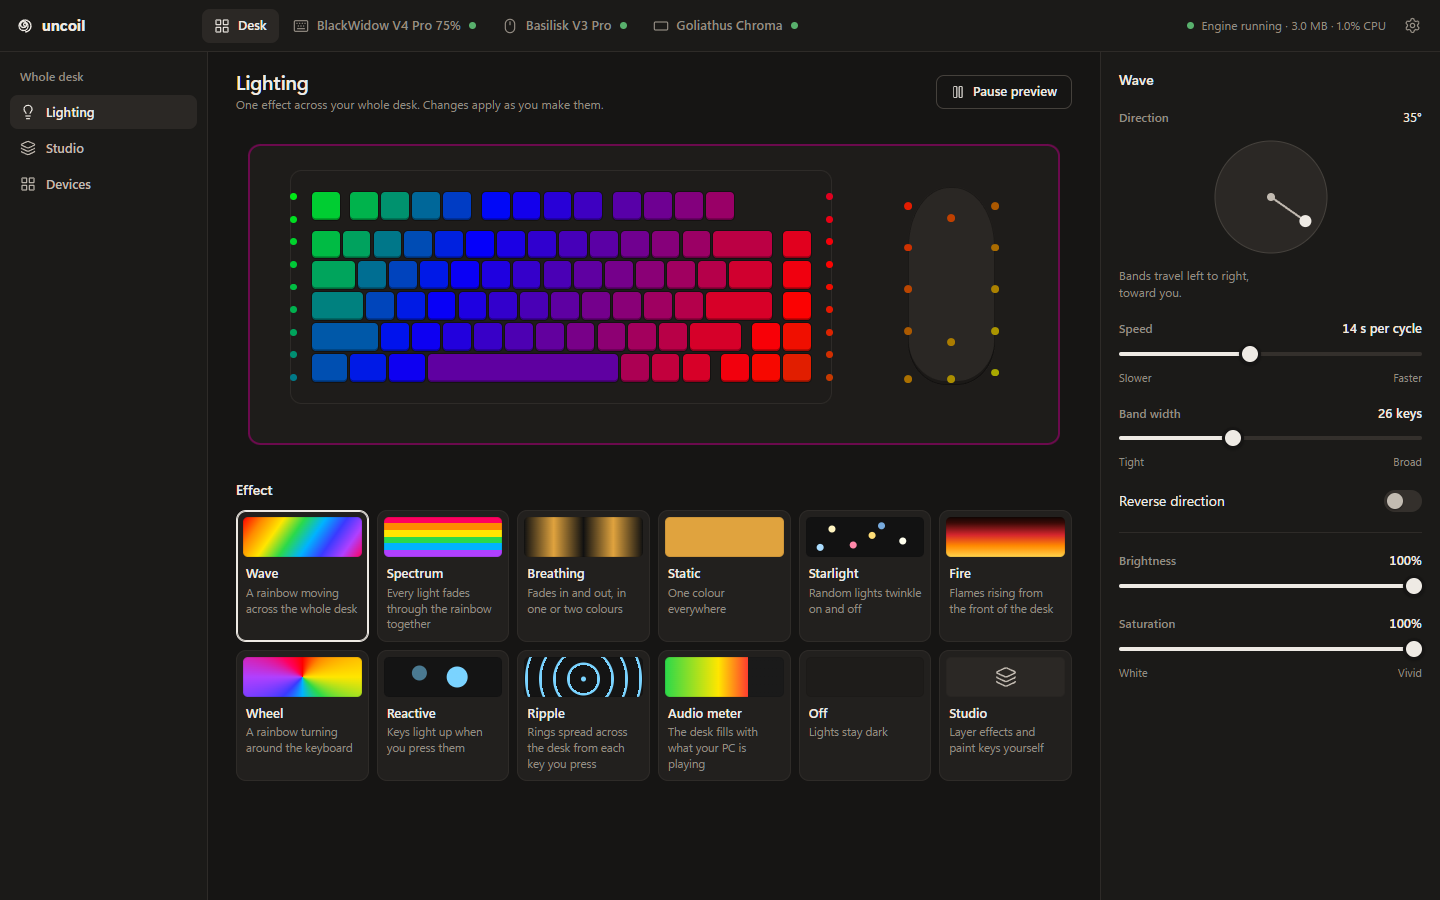
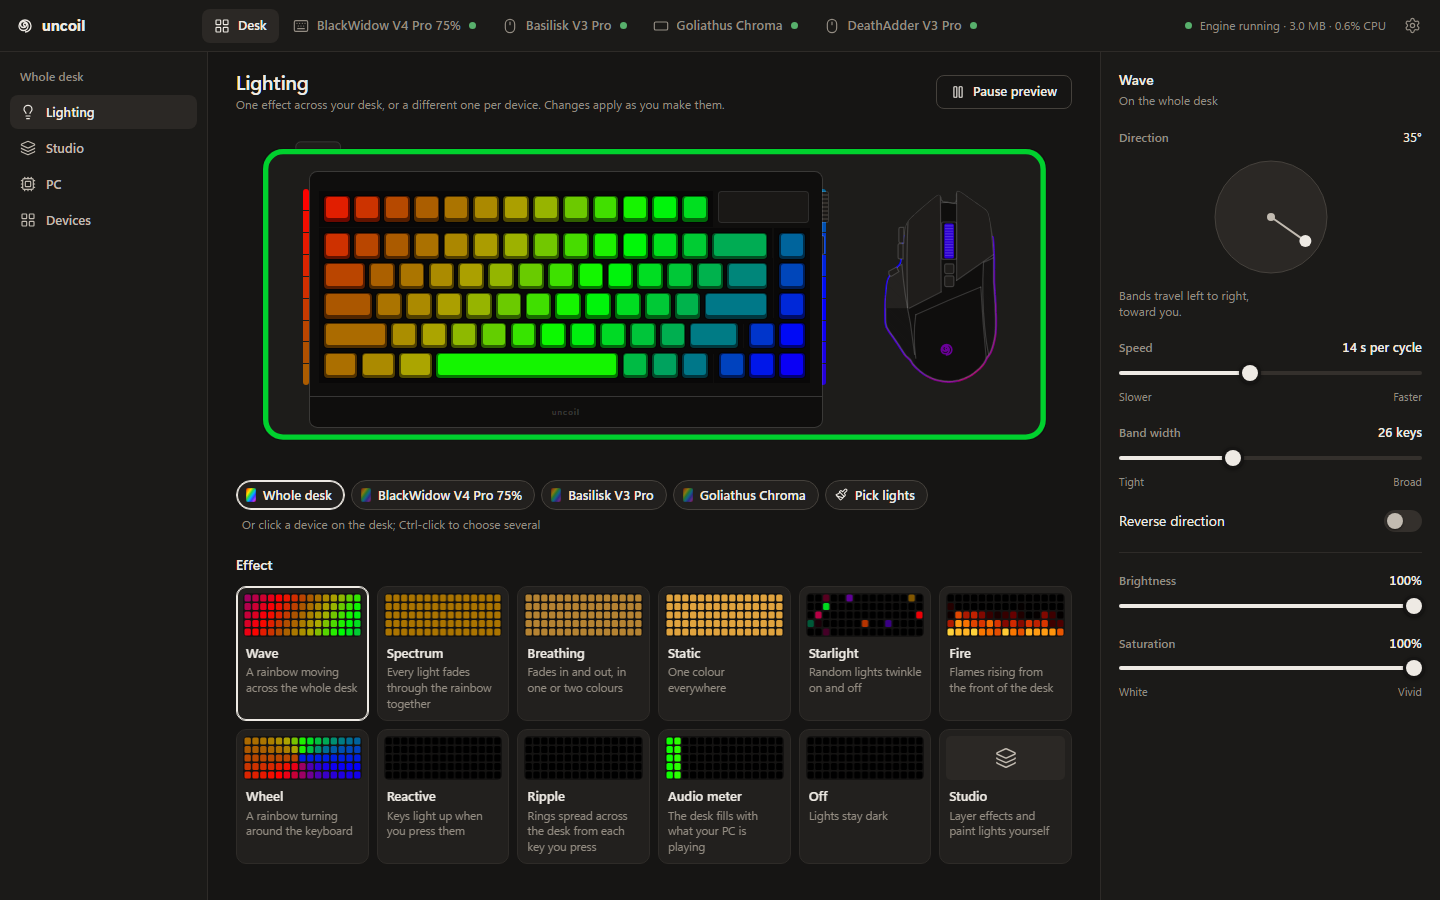
Docs and site: release download path, confirmed features, fresh screenshots
- A release user's path: the landing page and getting started now
  download from GitHub Releases, check SHA256SUMS.txt and run
  install-task.ps1 from that folder, which now installs the uncoild.exe
  beside it when there is one (else target\release as before). The
  release notes no longer say the logon task runs elevated.
- DPI, stages, poll rate, scroll mode and Smart Reel are described as
  confirmed on the Basilisk V3 Pro (2026-10-07) everywhere, with power and
  scroll acceleration still gated; firmware effects and 00/81, 00/86 are
  no longer "to map".
- README and the landing page gain per-device lighting, the device
  drawings and the PC page; tools/art joins the layout trees; PRODUCT.md
  lists today's effects and features.
- Measured figures: size 1,387,520 bytes (2026-10-07), 5-6 MB with live
  OpenRGB, the BlackWidow's ~18 fps beside the mouse and mat's 29.7, one
  CPU label ("wave running") throughout.
- The lock's busy message says OpenRGB "and apparently Razer's software",
  as PROTOCOL.md does; ARCHITECTURE.md drops the old "take turns" line.
- Screenshots recaptured from the demo data in headless Chrome.

diff --git a/site/src/lib/url.ts b/site/src/lib/url.ts
@@ -4,6 +4,6 @@ const base = import.meta.env.BASE_URL.replace(/\/+$/, '');
 export const url = (path = '') => `${base}/${path.replace(/^\/+/, '')}`;
 
 export const REPO = 'https://github.com/justinthevoid/uncoil';
-/** TODO(release): point at the first published release once one exists. */
+/** Where the downloads are: uncoild.exe, the CLI, the install scripts and the app installer. */
 export const RELEASES = `${REPO}/releases`;
 export const blob = (path: string) => `${REPO}/blob/main/${path}`;

diff --git a/apps/uncoil/src/lib/views/LightingView.svelte b/apps/uncoil/src/lib/views/LightingView.svelte
@@ -170,7 +170,7 @@
 			<button type="button" class="card studio" role="radio" aria-checked={!zoned} onclick={onstudio}>
 				<span class="swatch studio-swatch"><Layers size={22} strokeWidth={1.6} /></span>
 				<span class="name">Studio</span>
-				<span class="note">Layer effects and paint keys yourself</span>
+				<span class="note">Layer effects and paint lights yourself</span>
 			</button>
 		</div>
 	</section>

diff --git a/crates/uncoil-hid/src/guard.rs b/crates/uncoil-hid/src/guard.rs
@@ -148,8 +148,8 @@ impl std::fmt::Display for Busy {
     fn fmt(&self, f: &mut std::fmt::Formatter<'_>) -> std::fmt::Result {
         write!(
             f,
-            "another program is talking to {} right now (Razer's software and OpenRGB use the same device lock); \
-             try again in a moment",
+            "another program is talking to {} right now (OpenRGB, and apparently Razer's software, use the same \
+             device lock); try again in a moment",
             self.0
         )
     }

diff --git a/README.md b/README.md
@@ -16,13 +16,14 @@ actually use, in one 1.4 MB process.**
 |---|---|---|
 | Processes | 17 | **1** |
 | Memory | ~1.4 GB at start, leaking to multiple GB over days | **~3 MB** private |
-| CPU, idle after startup | ~7% of a core | **<1%** of one core |
+| CPU, wave running | ~7% of a core | **<1%** of one core |
 | Install size | ~500 MB | **1.4 MB**, single executable |
 | Kernel drivers | yes | **none**, plain user-mode HID |
 
 <sub>Measured on the maintainer's PC (Windows 11, BlackWidow V4 Pro 75%, Basilisk V3 Pro, Goliathus Chroma
-Extended, rainbow wave running); memory and CPU on an earlier build, size on the build of 2026-10-04
-(1,379,328 bytes). One machine, not a benchmark; yours will differ. The daemon reports its own memory, CPU
+Extended, rainbow wave running); memory and CPU on an earlier build, size on the build of 2026-10-07
+(1,387,520 bytes). With live OpenRGB streaming to 350 more LEDs it showed 5 to 6 MB (2026-10-07). One
+machine, not a benchmark; yours will differ. The daemon reports its own memory, CPU
 and size in `status.json`, so you can check yours.</sub>
 
 No services, no account, no telemetry; the daemon makes no network connections. The one exception is the
@@ -37,18 +38,27 @@ like). The daemon does the work.
   from the keyboard (including its side underglow) onto the mouse and the mat as one continuous field.
 - **The Razer quick effects:** wave, spectrum, breathing, static, starlight, fire, wheel, reactive, ripple and
   an audio meter, each with its own settings, plus brightness and saturation.
+- **A different effect per device.** On the Lighting page, pick devices (chips, or click them on the desk;
+  Ctrl-click for several) or paint lights across devices, and give them their own effect; the rest of the
+  desk keeps its own. Each effect card shows the effect itself, running.
 - **Studio.** Stack effects as layers with opacity, and limit each layer to the whole desk, chosen devices or
-  keys you paint. Reactive and ripple only ever learn where a key is, never which key it was.
+  lights you paint on any device. Reactive and ripple only ever learn where a key is, never which key it was.
+- **Your devices, drawn.** The app draws each device from above as line art traced from its product photo:
+  keyboards with their real case, screen and dial, mice with their buttons, mats and docks with their lights.
+  With live OpenRGB, a PC page shows the motherboard, memory, graphics card, fans and cooler where they sit
+  in the case, lit with the desk's effect.
 - **Keys and buttons.** Remap keys on the normal and Fn layers and the mouse's buttons, set the command dial
   mode and the screen's brightness, and save a device's own (firmware) effect. These write to the device's own
   memory, so they keep working without uncoil. Every such write needs an explicit confirmation (`--write` on
   the command line) and is logged; settings that can be read back are, and the result says so.
 - **Mouse settings:** DPI, DPI stages, polling rate, battery level, sleep timer and low-battery warning on
-  mice whose device file lists them, using OpenRazer's shared mouse commands. These are not yet confirmed on
-  the Basilisk V3 Pro, so uncoil reads each value first and only changes it if the read makes sense.
+  mice whose device file lists them, using OpenRazer's shared mouse commands. DPI, stages and the poll rate
+  are confirmed on the Basilisk V3 Pro (2026-10-07); the battery and sleep settings are not yet, so uncoil
+  reads them first and only changes them if the read makes sense.
 - **Scroll wheel settings:** tactile or free spin, scroll acceleration and Smart Reel, stored in the mouse.
-  Unconfirmed on the Basilisk V3 Pro (read first, like the mouse settings above) and experimental on the
-  Basilisk V3 and V3 35K. Each device's firmware version, and a keyboard's layout and colour, can be read too.
+  Scroll mode and Smart Reel are confirmed on the Basilisk V3 Pro (2026-10-07); acceleration still waits
+  for the same read-only check, and the Basilisk V3 and V3 35K are experimental. Each device's firmware
+  version, and a keyboard's layout and colour, can be read too.
 - **Colour tuned for LEDs.** Uses FastLED's rainbow hue map, so no colour band looks wider or brighter than
   the rest.
 - **Behaves like Synapse where it matters.** Lighting fades out when Windows turns the display off, dims with
@@ -130,7 +140,9 @@ services, OpenRGB and SignalRGB by process name every 5 seconds, logs each once 
 (and in `uncoil status`). OpenRGB started by uncoil's own live mode doesn't count.
 
 ```powershell
-# from a clone, after building (see below)
+# from a release: in the folder with uncoild.exe and install-task.ps1 (check them against SHA256SUMS.txt)
+powershell -ExecutionPolicy Bypass -File .\install-task.ps1
+# or from a clone, after building (see below)
 powershell -ExecutionPolicy Bypass -File scripts\install-task.ps1
 ```
 
@@ -222,6 +234,7 @@ devices/experimental  experimental device files, generated by tools/devices/ fro
 docs/PROTOCOL.md      how the protocol was learned, and the hardware quirks
 docs/ARCHITECTURE.md  how the daemon, the pipe and its clients fit together
 tools/reference       Python probes and log-mining scripts used for reverse engineering
+tools/art             the device drawings: traced from product photos (photos are never committed)
 ```
 
 ## How it works
@@ -232,7 +245,8 @@ and [OpenRGB](https://gitlab.com/CalcProgrammer1/OpenRGB); uncoil re-implements 
 Synapse's own logs, which record every command it sends with a name and the raw bytes.
 
 `uncoild` places each device on a virtual desk, samples the effect at every LED's physical position, and
-streams custom frames (30 fps by default), respecting per-device quirks (the BlackWidow wants every reply
+streams custom frames (30 fps by default; measured on the maintainer's PC on 2026-10-07: the mouse and mat
+at 29.7, the BlackWidow, which acknowledges every report, at about 18), respecting per-device quirks (the BlackWidow wants every reply
 read back, or it quietly stops listening). Other commands from the app or the CLI run on the same device
 thread between frames. The full write-up, with the expensive lessons, is in
 [docs/PROTOCOL.md](docs/PROTOCOL.md); how the code fits together is in

diff --git a/site/src/content/docs/docs/architecture.md b/site/src/content/docs/docs/architecture.md
@@ -19,7 +19,7 @@ full version, module by module.
 ## The daemon: `uncoild`
 
 One process, no window, no console, no service, no kernel driver. It runs as the logged-in user, unelevated.
-On the maintainer's PC it is a 1.4 MB executable (1,379,328 bytes) that used about 3 MB of private memory and
+On the maintainer's PC it is a 1.4 MB executable (1,387,520 bytes, 2026-10-07) that used about 3 MB of private memory and
 under 1% of one core while animating (memory and CPU measured on an earlier build).
 
 - **Main loop** (every 33 ms; every 250 ms while the lights are faded out): watches the config file's
@@ -79,7 +79,7 @@ keys and the dial. uncoil supplies colours, and writes to a device's own memory 
 | `apps/uncoil-cli` | The `uncoil` command line, a client of the pipe. |
 | `apps/uncoil` | The desktop app: Tauri 2, SvelteKit and Tailwind. |
 | `devices/*.toml`, `devices/experimental/*.toml` | One data file per device, all compiled into the daemon. |
-| `tools/reference`, `tools/devices` | The Python probes and log miners used for reverse engineering; the generator for the experimental device files. |
+| `tools/reference`, `tools/devices`, `tools/art` | The Python probes and log miners used for reverse engineering; the generator for the experimental device files; the device drawings, traced from product photos. |
 
 ## The desktop app
 
@@ -125,11 +125,11 @@ uncoil check mouse        # the read-only checks, nothing is written
   "level": 1.0,
   "devices": [
     { "id": "razer-blackwidow-v4-pro-75", "name": "Razer BlackWidow V4 Pro 75%", "product_id": 691,
-      "connection": "wired", "fps": 29.8, "busy_retries": 12, "errors": 0 }
+      "connection": "wired", "fps": 18.1, "busy_retries": 12, "errors": 0 }
   ],
   "memory_bytes": 3145728,
   "cpu_percent": 0.8,
-  "exe_bytes": 1379328,
+  "exe_bytes": 1387520,
   "unknown_devices": [],
   "conflicts": [],
   "openrgb": { "state": "off", "detail": null, "devices": [], "ours": false }
@@ -145,8 +145,9 @@ drives (`{id, name, leds, zones}`), and `ours` says whether the running OpenRGB 
 
 ## In progress
 
-- Confirming the [experimental devices](/docs/devices/#experimental), and the DPI, poll rate, power and scroll
-  wheel commands on the Basilisk V3 Pro.
+- Confirming the [experimental devices](/docs/devices/#experimental), and on the Basilisk V3 Pro the power
+  commands (its low-battery byte reads an unexplained `0x4C`) and scroll acceleration; DPI, stages, poll
+  rate, scroll mode and Smart Reel are confirmed (2026-10-07).
 - What each command-dial mode does, and OLED images for the BlackWidow, which need more capture first. See
   [Protocol](/docs/protocol/#still-to-map).
 - Named profiles, per-app profiles, and an installer for the daemon.

diff --git a/site/src/content/docs/docs/getting-started.md b/site/src/content/docs/docs/getting-started.md
@@ -3,8 +3,8 @@ title: Getting started
 description: Build uncoild, install it as a logon task, retire Synapse without leaving devices in driver mode, check it is running, and remove it again.
 ---
 
-uncoil has no installer yet. Installing it means putting one executable somewhere and asking Windows to
-start it at logon. This page does both, and covers the one step that can go wrong: retiring Synapse.
+The daemon has no installer (the desktop app does). Installing it means putting one executable somewhere and
+asking Windows to start it at logon. This page does both, and covers the one step that can go wrong: retiring Synapse.
 
 ## What you need
 
@@ -12,21 +12,30 @@ start it at logon. This page does both, and covers the one step that can go wron
 - At least one [supported or experimental device](/docs/devices/), on its cable or dongle.
 - PowerShell (part of Windows) and administrator rights once, to copy the executable to `%ProgramFiles%`.
   The daemon itself runs as you, unelevated.
-- Until there is a release: Git and [Rust](https://rustup.rs) with the Visual Studio C++ build tools.
+- To build from source instead of downloading: Git and [Rust](https://rustup.rs) with the Visual Studio C++
+  build tools.
 
 ## 1. Get uncoild
 
-uncoil is pre-release and nothing has been released yet, so for now you build it from source with a stable
-Rust toolchain (1.85 or newer, MSVC target):
+**From a release:** download `uncoild.exe` and `install-task.ps1` (and, if you want them, `uncoil.exe`, the
+command line, and `uncoil-app-<version>-x64-setup.exe`, the desktop app) from
+[GitHub Releases](https://github.com/justinthevoid/uncoil/releases) into one folder, and check them against
+`SHA256SUMS.txt`:
+
+```powershell
+Get-FileHash .\uncoild.exe -Algorithm SHA256   # compare with the line in SHA256SUMS.txt
+```
+
+The binaries are not code-signed yet, so Windows SmartScreen may warn. In step 3, run `.\install-task.ps1`
+from that folder: it installs the `uncoild.exe` next to it.
+
+**From source**, with a stable Rust toolchain (1.85 or newer, MSVC target):
 
 ```powershell
 git clone https://github.com/justinthevoid/uncoil
 cd uncoil
 cargo build --release -p uncoild -p uncoil-cli   # -> target\release\uncoild.exe and uncoil.exe
 ```
-
-Once there is a release, its GitHub release page will carry `uncoild.exe`, the `uncoil.exe` command line,
-`install-task.ps1`, `uninstall-task.ps1` and an installer for the desktop app.
 
 `uncoild --version` prints the version and exits; it is otherwise silent. It has no window and no console.
 `uncoil.exe` is the optional command line; it talks to the running daemon and needs no installing.

diff --git a/docs/ARCHITECTURE.md b/docs/ARCHITECTURE.md
@@ -307,15 +307,14 @@ it before the next turn. Waits are at most 25 ms:
 
 - a frame report whose lock is busy skips the rest of that frame (the next one comes a frame later);
 - a command (`ask`, `query`) tries twice and then fails with plain words: "another program is talking to
-  Razer Basilisk V3 Pro right now (Razer's software and OpenRGB use the same device lock); try again in a
-  moment". A renderer's "still there?" ping that fails this way does not count as the device going away, and
+  Razer Basilisk V3 Pro right now (OpenRGB, and apparently Razer's software, use the same device lock); try
+  again in a moment". A renderer's "still there?" ping that fails this way does not count as the device going away, and
   a read-only check that fails this way stays untested;
 - putting a device back in normal mode on shutdown is sent even if the lock stays busy.
 
 The daemon creates the mutex with default security, or opens the one another program created when it can't
 create it, or, failing both, logs `Razer device lock unavailable (…); running without it` and carries on.
-Windows mutexes belong to the thread that took them and can be taken again by that thread, so nested calls on
-one device thread are fine, and the device threads of one uncoild take turns.
+A device thread that already holds a turn may take it again, so nested calls on one device thread are fine.
 
 **Conflict detection.** The lock keeps reports apart, but two programs sending colours to one device still
 make it flicker between them, and key map or DPI writes can land on top of each other. At every rescan
@@ -454,6 +453,6 @@ Running unelevated and treating device files and the pipe as untrusted (validati
 and server check, `winsec.rs`, the config-driven OpenRGB hand-off) took it to 1,257,472 bytes (about
 1.3 MB, measured 2026-10-03). The command-policy and write-helper refactor left it at 1,260,544 bytes
 (measured 2026-10-04). Live OpenRGB, the device lock, the scroll wheel, device info and conflict detection
-took it to 1,379,328 bytes (about 1.4 MB, +116 KB, measured 2026-10-04): about 62 KB is the live OpenRGB
+took it to 1,379,328 bytes (about 1.4 MB, +116 KB, measured 2026-10-04; 1,387,520 bytes on 2026-10-07 with the lock thread and the lights mask): about 62 KB is the live OpenRGB
 client, including the `OpenRGB.json` merge, and about 46 KB the scroll wheel, device info, the lock and the
 conflict check.

diff --git a/site/src/content/docs/docs/faq.md b/site/src/content/docs/docs/faq.md
@@ -24,12 +24,12 @@ Chroma Extended):
 |---|---|---|
 | Processes | 17 | 1 |
 | Memory | ~1.4 GB at start, leaking to several GB over days | ~3 MB |
-| CPU, idle animation | ~7% of one core | under 1% of one core |
+| CPU, wave running | ~7% of one core | under 1% of one core |
 | On disk | ~500 MB | 1.4 MB, one executable |
 | Kernel drivers | yes | none |
 
-That is one machine. Memory and CPU were measured on an earlier build; the size is the build of 2026-10-04
-(1,379,328 bytes).
+That is one machine. Memory and CPU were measured on an earlier build; the size is the build of 2026-10-07
+(1,387,520 bytes). With live OpenRGB streaming to 350 more LEDs it showed 5 to 6 MB of memory.
 uncoild measures itself and writes the numbers to `%LOCALAPPDATA%\uncoil\status.json` (`uncoil status` prints
 them), so you can check yours.
 
@@ -48,8 +48,9 @@ Key and button remapping (normal and Fn layers) works from the app and the CLI. 
 Screen, has been checked on a real keyboard so far; see the
 [protocol](/docs/protocol/#onboard-key-mappings-the-fn-layer-lives-in-the-keyboard). DPI, DPI stages, poll
 rate, battery, the sleep timer and the scroll wheel (tactile or free spin, acceleration, Smart Reel) are there
-too, from OpenRazer's documented commands, but not yet confirmed on real hardware: uncoil reads each one first
-and won't change it unless the read makes sense.
+too, from OpenRazer's documented commands. DPI, stages, poll rate, scroll mode and Smart Reel are
+confirmed on the Basilisk V3 Pro (2026-10-07); for the rest uncoil reads each value first and won't change it unless the read
+makes sense.
 
 Anything already stored in a device's own memory stays there after Synapse is uninstalled. If you need one of
 the above occasionally, you can install Synapse, make the change, quit it properly, and uninstall it again.

diff --git a/PRODUCT.md b/PRODUCT.md
@@ -39,10 +39,10 @@ Supporting points (secondary, in this order):
 ## Capabilities and Constraints
 
 - Supported devices today: Razer BlackWidow V4 Pro 75% (wired), Basilisk V3 Pro (wired/HyperSpeed), Goliathus Chroma Extended. More via data files.
-- Effects: angled rainbow wave, spectrum, static, off; brightness, saturation, speed, band width, angle.
+- Effects: wave, spectrum, breathing, static, starlight, fire, wheel, reactive, ripple, audio meter, off; brightness and saturation; a different effect per device; Studio layers.
 - Device firmware stays in normal mode so Fn/media/dial keep working even if uncoil isn't running.
 - Optional OpenRGB for non-Razer RGB (motherboard, GPU, RAM), off by default, from its own elevated logon task only if installed with `-OpenRgb`: either a one-shot hand-off to the devices' hardware modes, or live, where OpenRGB runs as a local server and those devices follow the desk effect.
-- Undecided: Fn-layer editor UI, dial/OLED control, per-app profiles, installer format, distribution channel.
+- Built: key and button remapping (normal and Fn / Hypershift layers), dial mode and OLED brightness, mouse DPI, poll rate, power and scroll settings, a PC page for OpenRGB lighting. Undecided: per-app profiles, a daemon installer (the app has an NSIS installer), distribution beyond GitHub Releases.
 - License GPL-3.0-or-later. Not affiliated with Razer; must not use Razer/Synapse/Chroma marks in the product name or logo.
 
 ## Brand Commitments

diff --git a/docs/PROTOCOL.md b/docs/PROTOCOL.md
@@ -378,12 +378,14 @@ command, image format and chunking never appear in the logs.
 
 ## Still to map
 
-- Hardware verification of firmware effects (`0F/02`) on all three devices, and of `dial set` / `oled set`.
+- Firmware effects (`0F/02`) beyond the three verified session effects, onboard storage, and `dial set` /
+  `oled set` on hardware.
 - Profile switching and confirmation of `05/84`.
-- The shared mouse commands (DPI, stages, poll rate, battery, sleep timer, low-battery threshold, scroll
-  wheel) on the Basilisk V3 Pro: `uncoil check mouse` reads them all without writing anything.
-- `00/81` and `00/86` on uncoil's own devices (`uncoil info`), and the layout codes OpenRGB marks
-  unconfirmed.
+- The rest of the shared mouse commands on the Basilisk V3 Pro: the low-battery threshold (reads `0x4C`),
+  the sleep-timer write and scroll acceleration (DPI, stages, poll rate, scroll mode and Smart Reel were
+  confirmed on 2026-10-07).
+- The layout codes OpenRGB marks unconfirmed (`00/81` and `00/86` answered on uncoil's own devices on
+  2026-10-07: firmware 1.03 / 2.01 / 2.00, the keyboard US ANSI and black).
 - Every file in `devices/experimental/` (built from OpenRazer / OpenRGB data).
 - Media-key (`fn` 10), macro, lighting and Windows-shortcut data layouts on the keyboard.
 - The `02/8F` bulk-read paging, and the factory Hypershift defaults for keys Synapse never wrote.

diff --git a/site/src/content/docs/docs/protocol.md b/site/src/content/docs/docs/protocol.md
@@ -387,12 +387,14 @@ command, image format and chunking never appear in the logs.
 
 ## Still to map
 
-- Hardware verification of firmware effects (`0F/02`) on all three devices, and of `dial set` / `oled set`.
+- Firmware effects (`0F/02`) beyond the three verified session effects, onboard storage, and `dial set` /
+  `oled set` on hardware.
 - Profile switching and confirmation of `05/84`.
-- The shared mouse commands (DPI, stages, poll rate, battery, sleep timer, low-battery threshold, scroll
-  wheel) on the Basilisk V3 Pro: `uncoil check mouse` reads them all without writing anything.
-- `00/81` and `00/86` on uncoil's own devices (`uncoil info`), and the layout codes OpenRGB marks
-  unconfirmed.
+- The rest of the shared mouse commands on the Basilisk V3 Pro: the low-battery threshold (reads `0x4C`),
+  the sleep-timer write and scroll acceleration (DPI, stages, poll rate, scroll mode and Smart Reel were
+  confirmed on 2026-10-07).
+- The layout codes OpenRGB marks unconfirmed (`00/81` and `00/86` answered on uncoil's own devices on
+  2026-10-07: firmware 1.03 / 2.01 / 2.00, the keyboard US ANSI and black).
 - Every file in `devices/experimental/` (built from OpenRazer / OpenRGB data).
 - Media-key (`fn` 10), macro, lighting and Windows-shortcut data layouts on the keyboard.
 - The `02/8F` bulk-read paging, and the factory Hypershift defaults for keys Synapse never wrote.

diff --git a/site/README.md b/site/README.md
@@ -62,11 +62,12 @@ Static output, GitHub Pages friendly. By default the site is built for
 
 ## Open items
 
-- [ ] Replace `src/assets/app-lighting-{light,dark}.png` (captures of the app on its demo data) with ones taken
-      against the live engine.
+- [x] `src/assets/app-lighting-{light,dark}.png` recaptured on 2026-10-07 (the app on its demo data, headless
+      Chrome, nothing else in frame). A capture against the live engine would show real devices.
 - [ ] The phone video of the desk wave, once it is in the repo (a short muted loop would suit "The app").
-- [ ] First GitHub release: the download button and install steps point at `/releases`; confirm the release
-      ships `uncoild.exe` and `install-task.ps1` under those names.
+- [x] Install steps: download from `/releases` (the release ships `uncoild.exe`, `uncoil.exe`,
+      `install-task.ps1`, `uninstall-task.ps1`, the app installer and `SHA256SUMS.txt`), and `install-task.ps1`
+      installs the `uncoild.exe` next to it. Check on the first release that the names still match.
 - [ ] Domain, if any (see Deploy).
 - [ ] Donation/sponsor links, if wanted (none on the site today).
 - [ ] Social preview image (`og:image`) once there is a real screenshot.
